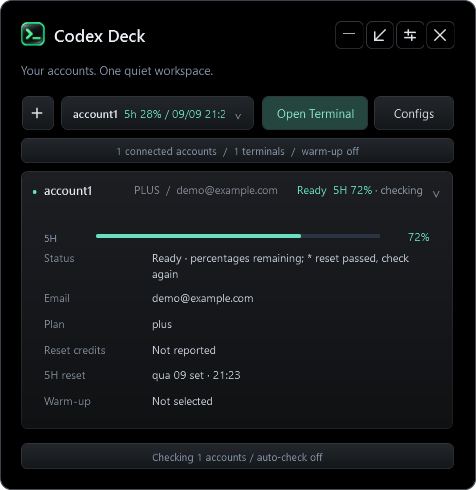
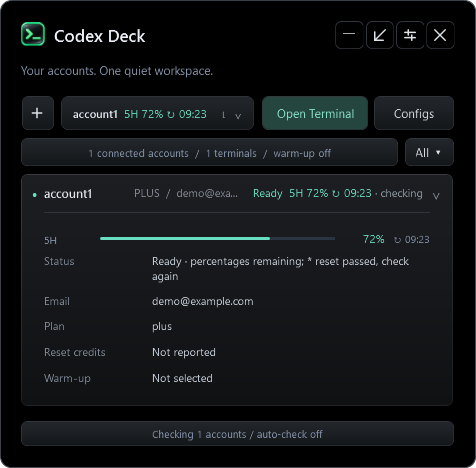
Fix account status consistency and filtering

diff --git a/suite/Deck.Theme.xaml b/suite/Deck.Theme.xaml
@@ -31,7 +31,7 @@
    </Grid>
    <TextBlock x:Name="Subtitle" Text="Your accounts. One quiet workspace." Foreground="#8493AA" Margin="0,0,0,18"/>
    <Grid x:Name="LaunchBar" Margin="0,0,0,8"><Grid.ColumnDefinitions><ColumnDefinition Width="40"/><ColumnDefinition/><ColumnDefinition Width="112"/><ColumnDefinition Width="80"/></Grid.ColumnDefinitions><Button x:Name="NewButton" FontSize="23" Padding="0" Width="32" Height="34" VerticalAlignment="Center" ToolTip="New account"><Path Width="12" Height="12" Stretch="Fill" Stroke="#DDE2E7" StrokeThickness="1.5" Data="M 6,0 L 6,12 M 0,6 L 12,6"/></Button><ComboBox x:Name="AccountPicker" Grid.Column="1" Margin="0,0,8,0"/><Button x:Name="LaunchButton" Grid.Column="2" Content="Open Terminal" Background="#24463F" Foreground="#8CE6CD"/><Button x:Name="ConfigButton" Grid.Column="3" Content="Configs" Margin="0"/></Grid>
-   <Button x:Name="SummaryButton" Padding="8,5" Margin="0,0,0,8"><TextBlock x:Name="Summary" Foreground="#8493AA" FontSize="10" TextAlignment="Center"/></Button>
+   <Grid Margin="0,0,0,8"><Grid.ColumnDefinitions><ColumnDefinition/><ColumnDefinition Width="Auto"/></Grid.ColumnDefinitions><Button x:Name="SummaryButton" Padding="8,5" Margin="0,0,6,0"><TextBlock x:Name="Summary" Foreground="#8493AA" FontSize="10" TextAlignment="Center"/></Button><Button x:Name="FilterButton" Grid.Column="1" Content="All ▾" Padding="10,5" Margin="0" ToolTip="Filter visible accounts by plan"/></Grid>
   </StackPanel>
   <Button x:Name="StatusButton" DockPanel.Dock="Bottom" Padding="8,5" Margin="0,8,0,0"><TextBlock x:Name="StatusLine" FontSize="10" Foreground="#8493AA" TextAlignment="Center"/></Button>
   <ScrollViewer Style="{StaticResource {x:Type ScrollViewer}}" CanContentScroll="False" x:Name="CardScroll" VerticalScrollBarVisibility="Auto" HorizontalScrollBarVisibility="Disabled"><StackPanel x:Name="Cards"/></ScrollViewer>

diff --git a/README.md b/README.md
@@ -107,7 +107,7 @@ For a non-interactive view, use **`codex-auth status`**. It prints cached data w
 Run **`codex-deck`**, or press **D** in the terminal dashboard.
 
 - **Open Terminal** launches the selected account in your default or chosen folder.
-- Click the **online / terminals** bar to switch between connected accounts and all profiles, in either view.
+- Click the **online / terminals** bar to switch between connected accounts and all profiles, in either view. Use the adjacent plan filter to show all, Free, or Plus and higher accounts.
 - Click the status bar below the list to check every visible account.
 - Switch between the **panel** and **widget**, then expand account rows for more detail.
 - **Settings** controls appearance, visible fields, email masking, automatic checks and warm-up.
